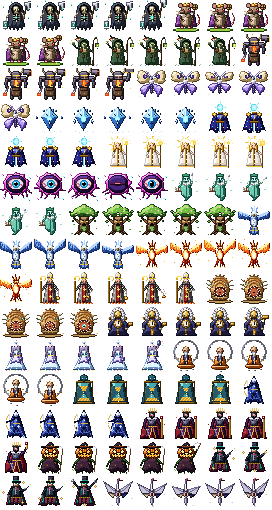
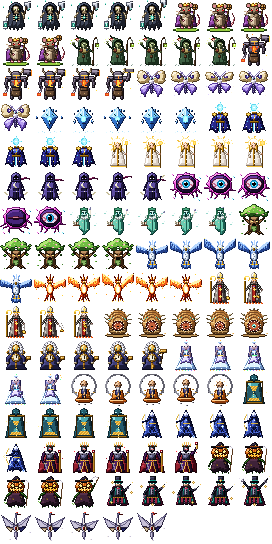
The Eclipse Twins in full: Noct as a second body, Day and Night, the tether, Totality, the last-phase rule
Noct is his own creature now, in his own art (frames2 from their data, tools/rf_build_bx.py): he chases, orbits opposite Lumen, merges at his side, and in the last phase charges along marked lines. His hits are Lumen's until the last phase, when he has his own Life: Lumen will not fall below 5% while Noct stands, and a Noct who falls more than 10 s before Lumen is called back. Day and Night: a line drifts across the room; Lumen's shots hurt only on the day side, Noct's only on the night side, the others go see-through. Orbit: the beam between them burns. Totality: only blows from the bright half land. Shots marked as Noct's come from him. All shared (Noct is a server creature; shots carry their side).

diff --git a/src/bosses/rf_translate.js b/src/bosses/rf_translate.js
@@ -72,6 +72,7 @@ function originsOf(e, B, src) {
   if (src === 'decoys' && P.decoys) return decoysOf(e, B, P);
   if (src === 'corners') { const A = box(e, B); return [[1.5, 1.5], [A.w - 1.5, 1.5], [1.5, A.h - 1.5], [A.w - 1.5, A.h - 1.5]].map(([x, y]) => ({ x: A.x0 + x, y: A.y0 + y })); }
   if (src === 'crown' && P.crownOrbit) return [crownAt(e, B, P.crownOrbit)];
+  if (src === 'b2') { const n = e.rfNoct && !e.rfNoct.dead ? e.rfNoct : null; return n ? [{ x: n.x, y: n.y - 1 }] : null; }   // Noct
   return null;                                                   // (its body: b1, and for now b2 and the ring of mirrors too)
 }
 // the arena-sized box round the place it rose (their arena's columns and rows)
@@ -100,7 +101,8 @@ function fire(g, e, B, bal, em, vol, org) {
   if (em.t === 'seq') { const st = em.steps && em.steps[vol % em.steps.length]; if (st) fire(g, e, B, bal, st, vol, org); return; }   // their steps, one a beat
   if (!B.shots[em.s] && em.t !== 'minion') return;
   const p = g.player, [ox, oy] = org ? [org.x, org.y] : g.bxOrigin(e), aim = Math.atan2(p.y - 0.4 - oy, p.x - ox), A = box(e, B), dmg = Math.round((s.dmg || 60) * bal.bossDmg);
-  const shot = (a, x = ox, y = oy, sp = s.speed || 5, rg = s.range || 8) => g.shoot('e', x, y, a, sp, rg, dmg, `rfx_shots/${B.id}.${em.s}`, 0.35, false, e.D.name);
+  const SIDE = e.bx.B.phases[e.bx.phase] && e.bx.B.phases[e.bx.phase].rfP.halves ? (em.src === 'b2' ? 'night' : 'day') : null;   // (Day and Night: whose side it hurts on)
+  const shot = (a, x = ox, y = oy, sp = s.speed || 5, rg = s.range || 8) => { const b = g.shoot('e', x, y, a, sp, rg, dmg, `rfx_shots/${B.id}.${em.s}`, 0.35, false, e.D.name); if (SIDE && b) b.rfSide = SIDE; return b; };
   const INK = em.ink && e.bx.B.phases[e.bx.phase] && e.bx.B.phases[e.bx.phase].rfP.ink;
   const zone = (x, y, r, delay) => {
     g.fx.push({ kind: 'zone', x, y, r, t: 0, delay, life: delay + 0.15, dmg: Math.round((s.dmg || 80) * bal.bossDmg), by: e.D.name, done: false, colors: [s.color || '#ff6a4a', '#ffffff'] });
@@ -179,13 +181,15 @@ function phaseRules(g, e, B, bal, dt) {
   const mins = (e.rfMins || []).filter((m) => !m.dead);
   if (mins.length) e.rfHadMins = true;
   if (ph.invuln && !e.rfFreed && e.rfHadMins && !mins.length) { e.rfFreed = true; g.banner(`${e.D.name} is exposed!`, 1800); }
+  // the Eclipse Twins: Noct, his movement, his own life at the end
+  if (B.twin) twinStep(g, e, B, bal, dt, ph);
   // Mother Mire's ritual: step on every rune before the brew boils
   if (ph.rfP.ritual) ritualStep(g, e, B, bal, dt, ph.rfP.ritual);
   // Aion's still hour: the puzzle that brings the shield down
   if (ph.rfP.puzzle) puzzleStep(g, e, B, bal, dt, ph.rfP);
   // a shield with no puzzle: openings every 9 s for 4 s
   else if (ph.shield && (e.rfOpenNext -= dt) <= 0) { e.rfOpenNext = 9; e.rfOpen = S.t + 4; g.banner('The shield falters!', 1600); }
-  e.rfImm = (ph.invuln && !e.rfFreed) || (ph.shield && !(ph.rfP.puzzle ? e.rfExpT > 0 : e.rfOpen > S.t)) || !!ph.rfP.egg || !!ph.rfP.cocoon;   // can it be hurt right now
+  e.rfImm = (ph.invuln && !e.rfFreed) || (ph.shield && !(ph.rfP.puzzle ? e.rfExpT > 0 : e.rfOpen > S.t)) || (B.twin && S.phase === B.phases.length && e.rfNoct && !e.rfNoct.dead && e.hp <= e.maxHp * 0.05) || !!ph.rfP.egg || !!ph.rfP.cocoon;   // can it be hurt right now
   // the trail: it leaves fire where it goes
   if (ph.rfP.trail && (e.rfTrailT = (e.rfTrailT || 0) - dt) <= 0) { e.rfTrailT = 0.25; g.fx.push({ kind: 'scorch', x: e.x, y: e.y + 0.2, r: 0.7, t: 0, life: 2.5, dps: Math.round(100 * bal.bossDmg), tick: 0, by: e.D.name }); }
   // the time limit: on to the next phase (its Life set there), or, the last, the end of the fight
@@ -225,6 +229,8 @@ const WELLS = (P, e, A, L) => (P.wells || []).map((w) => w.free
   : { ...w, x: e.x + Math.cos(L * (w.w || 0.6) + (w.ph || 0)) * (w.r || 0), y: e.y + Math.sin(L * (w.w || 0.6) + (w.ph || 0)) * (w.r || 0) * 0.8 });
 const FIELD = (P, L) => { const f = P.field, k = Math.floor(L / f.every), dirs = f.dirs || [[0, 1], [-1, 0], [0, -1], [1, 0]], d = dirs[k % dirs.length]; return { x: d[0] * f.mag, y: d[1] * f.mag }; };
 const EDGE = (P, L) => P.edge || (P.closing ? { w: P.closing.from + (P.closing.to - P.closing.from) * Math.min(1, Math.max(0, L - 2) / P.closing.over), dmg: P.closing.dmg } : null);
+const DIVX = (e, B, P, L) => { const A = box(e, B); return A.x0 + A.w / 2 + Math.sin(L * (P.halves.speed || 0.35)) * A.w * 0.28; };
+const noctOf = (g, e) => (e.rfNoct && !e.rfNoct.gone ? e.rfNoct : e.rfNoctNid && g.net && g.net.byId ? g.net.byId.get(e.rfNoctNid) || null : null);
 const FLOOD = (L) => 1 + Math.sin(L * 0.8) * 0.4 + Math.min(1.6, L * 0.2);
 const CREASE = (e, A, n) => { const h = hash(n, e.nid || 7), a = [0, Math.PI / 2, Math.PI / 4, -Math.PI / 4][Math.floor(h * 4)]; return { cx: A.x0 + A.w / 2 + (hash(n, 3) - 0.5) * 4, cy: A.y0 + A.h / 2 + (hash(n, 5) - 0.5) * 3, nx: -Math.sin(a), ny: Math.cos(a), a }; };
 // the phase's clock in this browser: the server's (it comes with the boss) run on between its updates
@@ -246,6 +252,13 @@ function arenaRules(g, e, B, bal, dt) {
   // the still hour: its shots hang in the air; the lances, turned by the mirror, end there
   if (e.rfPz === 'still') { if (!g.timeStop || g.timeStop.rfx) g.timeStop = { x: e.x, y: e.y, r: 40, t: 0.3, rfx: true }; }
   if (!('lw' in Z) || e.rfLanceWin !== Z.lw) { if ('lw' in Z) for (const b of g.projectiles) if (b.rfLance) { b.life = 0; g.fx.push({ kind: 'ring', x: b.x, y: b.y, t: 0, max: 1.2, color: '#ffd650' }); } Z.lw = e.rfLanceWin; }
+  // Day and Night: Lumen's shots hurt only on the day side of the drifting line, Noct's only on the night side (the
+  // others go see-through); the tether between them burns
+  if (P.halves) { const dx = DIVX(e, B, P, L);
+    for (const b of g.projectiles) if (b.rfSide && b.by === e.D.name) { const hurts = b.rfSide === 'day' ? p.x < dx : p.x >= dx; b.harmless = !hurts; b.ghost = !hurts; } }
+  if (P.tether) { const n = noctOf(g, e);
+    if (n && !n.dead) { const ax = e.x, ay = e.y, bx = n.x - ax, by = n.y - ay, L2 = bx * bx + by * by || 1, k = Math.max(0, Math.min(1, ((p.x - ax) * bx + (p.y - ay) * by) / L2));
+      if (Math.hypot(p.x - (ax + bx * k), p.y - (ay + by * k)) < 0.55 && tick('tether', 0.5)) hurt(P.tether.dmg || 100, 'the eclipse beam'); } }
   // the brew boiled over: those near are confused (keys turned about) for a while
   if (!('rit' in Z) || e.rfRitFail !== Z.rit) { const I = P.ritual && P.ritual.inflict; if ('rit' in Z && I && Math.hypot(p.x - e.x, p.y - e.y) < 16) { g.invertUntil = g.t + (I.t || 2.5); g.float(p.x, p.y - 1.2, 'CONFUSED', '#c8a0ff'); } Z.rit = e.rfRitFail; }
   // the dark, the sandstorm: you see only round yourself
@@ -338,11 +351,59 @@ function drawArena(r, g, e, B) {
     for (let i = 0; i < e.rfPlN; i++) { const pl = plateAt(A, i), lit = ord.indexOf(i) < (e.rfNext || 0), [sx, sy] = r.proj(pl.x, pl.y);
       circle(pl.x, pl.y, 0.7, lit ? '#ffd650' : '#8a7ad0', lit ? 0.6 : 0.35); circle(pl.x, pl.y, 0.7, '#fff6c8', 0.7, true);
       b.fillStyle = '#ffffff'; b.font = '12px monospace'; b.textAlign = 'center'; b.fillText(['I', 'II', 'III', 'IV', 'V'][ord.indexOf(i)] || '', sx, sy + 4); } }
+  if (P.halves) { const dx = DIVX(e, B, P, L), [x0, y0] = r.proj(dx, A.y0), [x1, y1] = r.proj(dx, A.y0 + A.h);
+    poly([[A.x0, A.y0], [dx, A.y0], [dx, A.y0 + A.h], [A.x0, A.y0 + A.h]], '#ffe9a0', 0.08); poly([[dx, A.y0], [A.x0 + A.w, A.y0], [A.x0 + A.w, A.y0 + A.h], [dx, A.y0 + A.h]], '#1a0a3a', 0.25);
+    b.globalAlpha = 0.8; b.strokeStyle = '#ffffff'; b.lineWidth = 2; b.beginPath(); b.moveTo(x0, y0); b.lineTo(x1, y1); b.stroke(); b.globalAlpha = 1; }
+  if (P.tether) { const n = noctOf(g, e); if (n && !n.dead) { const [ax, ay] = r.proj(e.x, e.y), [nx, ny] = r.proj(n.x, n.y);
+    b.globalAlpha = 0.85; b.lineWidth = 5; b.strokeStyle = '#ffe9a0'; b.beginPath(); b.moveTo(ax, ay - 20); b.lineTo(nx, ny - 20); b.stroke();
+    b.lineWidth = 2; b.strokeStyle = '#3a1a6a'; b.beginPath(); b.moveTo(ax, ay - 20); b.lineTo(nx, ny - 20); b.stroke(); b.globalAlpha = 1; } }
   if (e.rfRit) for (const q of runesOf(e.rfRit)) { circle(q.x, q.y, 0.85, q.done ? '#ffd650' : '#7a3ac8', q.done ? 0.55 : 0.35 + 0.2 * Math.sin(g.t * 8)); circle(q.x, q.y, 0.85, '#e8d0ff', 0.7, true); }
   if (P.crownOrbit) { const c = crownAt(e, B, P.crownOrbit); circle(c.x, c.y, 0.6, '#ffd650', 0.8); circle(c.x, c.y, 0.9, '#fff6c8', 0.5, true); }
   if (e.rfSock) { const S0 = socketAt(A); circle(S0.x, S0.y, 0.8, '#ffd650', 0.8, true); circle(S0.x, S0.y, 0.5, '#3a2a10', 0.5); }
   if (e.rfTx) { circle(e.rfTx, e.rfTy, 0.7, '#ffd650', 0.5); circle(e.rfTx, e.rfTy, 0.7, '#ffffff', 0.8, true); }
   if (P.spotlight && g.rfZ && g.rfZ.e === e && g.rfZ.spot) circle(g.rfZ.spot.x, g.rfZ.spot.y, P.spotlight.r, '#fff6c8', 0.25);
+}
+// ---- the Eclipse Twins (Lumen, the boss; Noct, a second body the server owns): Noct's hits go to Lumen until the last
+// phase, when he has his own Life; he chases, orbits opposite Lumen, merges with him, then charges along marked lines. In
+// the last phase Lumen will not fall while Noct stands, and a Noct who falls more than 10 s before Lumen comes back.
+function twinKind(B, bal) {
+  const id = `rfz_${B.id}_2`;
+  if (!ENEMIES[id]) ENEMIES[id] = { name: String(B.title || '').split(' and ')[1] || 'the Twin', biome: 'dungeon', hp: Math.round(B.hp * bal.bossHp * 0.25), def: bal.bossDef ?? 0, speed: 0, xp: 0, r: 1.2,
+    ai: 'rooted', aggro: 0, reg: `bx_rf_${B.id}/rf_${B.id}_2`, scale: 2, contact: 0, attacks: [], loot: [] };
+  return id;
+}
+function twinStep(g, e, B, bal, dt, ph) {
+  const S = e.bx, P = ph.rfP, last = S.phase === B.phases.length, q = g.player;
+  let n = e.rfNoct;
+  if (!n || (n.dead && !last)) {                        // Noct rises (and, but in the last phase, never stays down)
+    n = e.rfNoct = g.addEnemy(twinKind(B, bal), e.x + 3, e.y); n.seen = true; n.noLoot = true; n.rfTwinOf = e;
+    if (last) n.hp = Math.round(n.maxHp * 0.5);
+  }
+  if (n.nid) e.rfNoctNid = n.nid;
+  n.linkTo = last ? null : e;                           // his hits are Lumen's, till the end
+  if (last && !e.rfLastSeen) { e.rfLastSeen = true; n.hp = n.maxHp; g.banner(`${B.title || 'The twins'} split apart: kill them both, close together`, 2600); }
+  if (last && n.dead) {
+    e.rfNoctDown = e.rfNoctDown ?? S.t;
+    if (S.t - e.rfNoctDown > 10 && !e.dead) { e.rfNoctDown = undefined; n = e.rfNoct = g.addEnemy(twinKind(B, bal), e.x + 3, e.y); n.seen = true; n.noLoot = true; n.hp = Math.round(n.maxHp * 0.5); g.banner(`${String(B.title || '').split(' and ')[0] || 'Lumen'} calls ${n.D.name} back!`, 2400); }
+    return;
+  }
+  e.rfNoctDown = undefined;
+  const M = P.mv2 || { m: 'center' }, A = box(e, B), H = homeOf(e);
+  const step = (tx, ty, sp) => { const dx = tx - n.x, dy = ty - n.y, d = Math.hypot(dx, dy); if (d > 0.15) g.moveCircle(n, (dx / d) * Math.min(d, sp * dt), (dy / d) * Math.min(d, sp * dt), 0.8); };
+  if (M.m === 'chase') { const d = Math.hypot(q.x - n.x, q.y - n.y); if (d > (M.keep || 5)) step(q.x, q.y, M.spd || 2.4); }
+  else if (M.m === 'orbit') step(2 * H.x - e.x, 2 * H.y - e.y, 4);           // opposite Lumen round the middle
+  else if (M.m === 'center') step(e.x + 1.2, e.y, 6);                         // merged: at his side
+  else if (M.m === 'charge') {                                               // a marked line, then the charge
+    const C = e.rfCharge;
+    if (C && g.t >= C.at) { const k = Math.min(1, (g.t - C.at) / C.T); n.x = C.x0 + (C.x1 - C.x0) * k; n.y = C.y0 + (C.y1 - C.y0) * k; if (k >= 1) e.rfCharge = null; }
+    else if (!C && (e.rfChargeT = (e.rfChargeT ?? M.every ?? 2.2) - dt) <= 0) {
+      e.rfChargeT = M.every || 2.2;
+      const a = Math.atan2(q.y - n.y, q.x - n.x), L = Math.min(12, Math.hypot(q.x - n.x, q.y - n.y) + 3);
+      const x1 = Math.max(A.x0 + 1, Math.min(A.x0 + A.w - 1, n.x + Math.cos(a) * L)), y1 = Math.max(A.y0 + 1, Math.min(A.y0 + A.h - 1, n.y + Math.sin(a) * L)), len = Math.hypot(x1 - n.x, y1 - n.y);
+      g.fx.push({ kind: 'lane', x: n.x, y: n.y, a, len, w: 0.9, delay: M.warn || 0.7, t: 0, life: (M.warn || 0.7) + len / (M.spd || 16) + 0.1, dmg: Math.round(140 * bal.bossDmg), by: n.D.name, hitT: 0, cols: ['#8a5ad0', '#c8a0ff', '#3a1a6a', '#ffffff'] });
+      e.rfCharge = { x0: n.x, y0: n.y, x1, y1, at: g.t + (M.warn || 0.7), T: Math.max(0.1, len / (M.spd || 16)) };
+    }
+  }
 }
 // ---- Mother Mire's ritual, on the server: runes appear; if the players between them step on every one before the cast
 // ends it is broken (she staggers, three seconds without attacking); if not, the brew boils over (a ring of shots, and
@@ -482,7 +543,7 @@ export function rfBossToBX(DATA, B) {
       const S = e.bx, R = S.rfEm;
       tickMinions(g, e, B, bal, dt);
       phaseRules(g, e, B, bal, dt);
-      if (S.state === 'death' || S.state === 'deathhold') { for (const m of e.rfMins || []) if (!m.dead) { m.noLoot = true; m.dead = true; m.deadT = 0; } endPieces(e); }   // (its creatures go with it)
+      if (S.state === 'death' || S.state === 'deathhold') { for (const m of [...(e.rfMins || []), e.rfNoct]) if (m && !m.dead) { m.noLoot = true; m.dead = true; m.deadT = 0; } endPieces(e); }   // (its creatures go with it)
       if (e.rfPz === 'still') return;                              // (time stopped: it waits too)
       if (e.rfStagT > 0) { e.rfStagT -= dt; return; }              // (staggered: a ritual broken)
       if (!R || S.t > R.until || S.state === 'morph' || S.state === 'death' || S.state === 'deathhold') return;
@@ -493,7 +554,12 @@ export function rfBossToBX(DATA, B) {
     local(g, e, dt) { arenaRules(g, e, B, bal, dt); },
     drawGround(r, g, e) { drawArena(r, g, e, B); },
     // can't be hurt: an invulnerable phase (until its time is up or its minions fall), or shielded outside its openings
-    immune(g, e) { return !!e.rfImm; },                 // (worked out each frame where the fight runs: phaseRules; a shared boss brings it along)
+    immune(g, e) {
+      if (e.rfImm) return true;
+      const ph = e.bx.B.phases[e.bx.phase];
+      if (ph && ph.rfP.halflit) { const a0 = (e.rfL ?? e.rfPhT ?? 0) * 0.6, q = g.player, a = Math.atan2(q.y - e.y, q.x - e.x); return Math.cos(a - a0) < 0; }   // (Totality: struck from the dark side, nothing)
+      return false;
+    },                 // (worked out each frame where the fight runs: phaseRules; a shared boss brings it along)
     immuneText: 'INVULNERABLE',
     // what the phase looks like on it: rage's red glow, an invulnerable ring, the hour's gold shield, the leash's reach
     draw(r, g, e, sx, sy) {
@@ -504,6 +570,9 @@ export function rfBossToBX(DATA, B) {
       if (ph.invuln && e.rfImm) ring(34, '#9fd8ff', 0.55 + Math.sin(g.t * 6) * 0.25);
       if (ph.shield && e.rfImm) ring(36, '#ffd650', 0.6);
       if (ph.rfP.decoys && e.bx.def && e.bx.anim) for (const d of decoysOf(e, B, ph.rfP)) { const [dx, dy] = r.proj(d.x, d.y); b.globalAlpha = 0.45; r.drawDef(e.bx.def, e.bx.anim.frame, dx, dy, { scale: 1 }); b.globalAlpha = 1; }   // her decoys
+      if (ph.rfP.halflit) {                               // Totality: the bright half turns (only blows from that side land)
+        const a0 = (e.rfL ?? e.rfPhT ?? 0) * 0.6; b.globalAlpha = 0.3; b.fillStyle = '#ffe066'; b.beginPath(); b.arc(sx, sy - 24, 44, a0 - Math.PI / 2, a0 + Math.PI / 2); b.lineTo(sx, sy - 24); b.fill();
+        b.fillStyle = '#0a0418'; b.globalAlpha = 0.45; b.beginPath(); b.arc(sx, sy - 24, 44, a0 + Math.PI / 2, a0 + Math.PI * 1.5); b.lineTo(sx, sy - 24); b.fill(); b.globalAlpha = 1; }
       if (e.rfStagT > 0) { b.fillStyle = '#ffe066'; b.font = '10px monospace'; b.textAlign = 'center'; b.fillText('STAGGERED', sx, sy - 60); }
       if ((ph.rfP.egg || ph.rfP.cocoon) && e.rfImm) ring(32 + Math.sin(g.t * 6) * 2, ph.rfP.egg ? '#ffcc33' : '#f4ecd8', 0.7);
       if (ph.leash) { b.globalAlpha = 0.18; b.strokeStyle = '#7ac85a'; b.lineWidth = 1; b.beginPath(); b.arc(sx, sy, ph.leash.len * 16, 0, TAU); b.stroke(); b.globalAlpha = 1; }

diff --git a/src/game.js b/src/game.js
@@ -2231,6 +2231,7 @@ export class Game {
     }
   }
   damageEnemy(e, dmg, x, y, quiet = false, crit = false) {
+    if (e.linkTo && !e.linkTo.dead && e.linkTo !== e) return this.damageEnemy(e.linkTo, dmg, x, y, quiet, crit);   // a body that is part of another (the Eclipse Twins' Noct)
     if (e.rfC || e.rfBossP) return this.rfAbilityHit(e, dmg);   // an rf_ dungeon's creature or boss
     if (e.dead || e.state === 'dead') return 0;
     if (e.spawnT > 0) return 0;                                  // an elite still arriving

diff --git a/tools/rf_build_bx.py b/tools/rf_build_bx.py
@@ -15,11 +15,16 @@ out = os.path.join(root, 'art', 'bundle', 'realmforge')
 bosses = Sheet('rf_bx', 'boss', cols=8, cell=34)
 shots = Sheet('rfx_shots', 'shot', cols=16, cell=16)
 plan = {}
+plan2 = {}
 for B in D['bosses']:
     bid = B['id']
     keys = []
     for i, g in enumerate(B['frames']): k = f'{bid}#f{i}'; bosses.add(k, g, B['pal']); keys.append(('f%d' % i, k))
     if B.get('atk'): bosses.add(f'{bid}#atk', B['atk'], B['pal']); keys.append(('atk', f'{bid}#atk'))
+    keys2 = []                                        # a twin's second body (the Eclipse Twins' Noct): its own frames
+    for i, g in enumerate(B.get('frames2') or []): k = f'{bid}#g{i}'; bosses.add(k, g, B['pal2']); keys2.append(('f%d' % i, k))
+    if B.get('atk2'): bosses.add(f'{bid}#atk2', B['atk2'], B['pal2']); keys2.append(('atk', f'{bid}#atk2'))
+    if keys2: plan2[bid] = keys2
     plan[bid] = (keys, [ph.get('name') or f'Phase {i + 1}' for i, ph in enumerate(B['phases'])])
     for sk, S in (B.get('shots') or {}).items():
         if S.get('grid'): shots.add(f'{bid}.{sk}', S['grid'], S['pal'])
@@ -32,6 +37,9 @@ for bid, (keys, nph) in plan.items():
              'death': {'frames': move[:1], 'fps': 4, 'loop': False}}
     phases = {str(i + 1): {'name': nm, 'idle': 'idle', 'attack': 'attack'} for i, nm in enumerate(nph or ['Phase 1'])}   # (each phase announced by its own name)
     sheets[f'bx_rf_{bid}'] = {'image': built['image'], 'kind': 'boss', 'sprites': {f'rf_{bid}': {'frames': frames, 'anims': anims, 'phases': phases, 'death': 'death', 'meta': {}}}}
+    if bid in plan2:                                  # the second body, drawn as a monster ('move' and 'attack' clips)
+        f2 = {name: built['sprites'][k]['frames']['0'] for name, k in plan2[bid]}; m2 = [n for n in f2 if n.startswith('f')]
+        sheets[f'bx_rf_{bid}']['sprites'][f'rf_{bid}_2'] = {'frames': f2, 'anims': {'move': {'frames': m2, 'fps': 6, 'loop': True}, 'attack': {'frames': ['atk'] if 'atk' in f2 else m2[:1], 'fps': 6, 'loop': False}}, 'meta': {}}
 sheets['rfx_shots'] = shots.build(out)
 atlas = {'rf': True, 'meta': {'name': 'Realmforge bosses for the three-phase engine', 'version': 1}, 'sheets': sheets}
 json.dump(atlas, open(os.path.join(out, 'atlas_rf_bx.json'), 'w', encoding='utf8', newline='\n'), indent=1)
